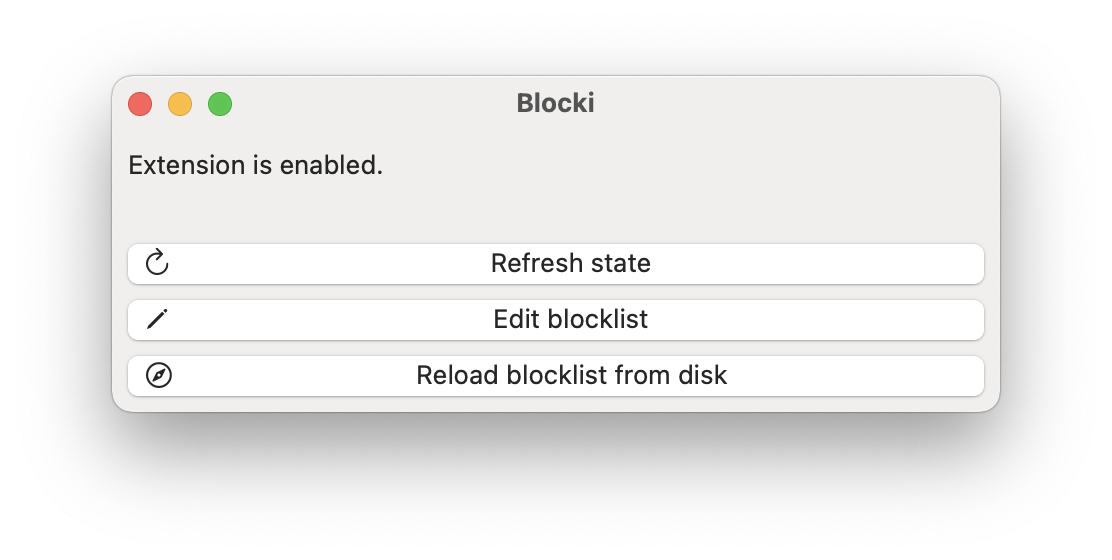
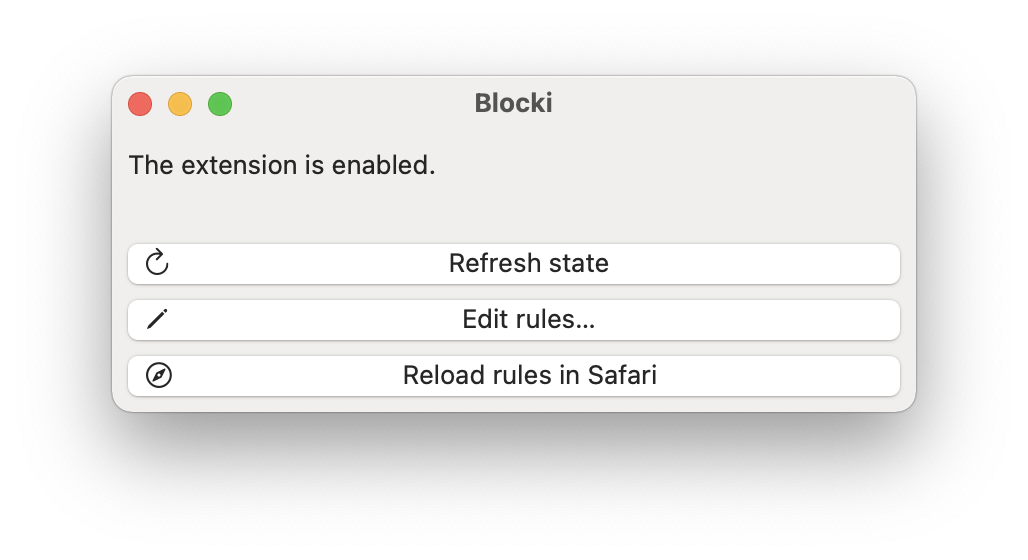
Fix typos and update screenshot

diff --git a/Blocki/ViewController.swift b/Blocki/ViewController.swift
@@ -57,8 +57,8 @@ class ViewController: NSViewController {
 			let state = optionalState!
 
 			let message = state.isEnabled
-				? NSLocalizedString("The Extension is enabled.", comment: "Text indicating that the extension is enabled in Safari.")
-				: NSLocalizedString("The Extension is not enabled.", comment: "Text indicating that the extension is not enabled in Safari.")
+				? NSLocalizedString("The extension is enabled.", comment: "Text indicating that the extension is enabled in Safari.")
+				: NSLocalizedString("The extension is not enabled.", comment: "Text indicating that the extension is not enabled in Safari.")
 
 			DispatchQueue.main.async {
 				self.signal(message: message)

diff --git a/README.md b/README.md
@@ -1,6 +1,6 @@
 #  Blocki
 
-<img src="screenshot.png" alt="Screenshot of Blocki" width="556" heigth="280"/>
+<img src="screenshot.png" alt="Screenshot of Blocki" width="514" heigth="280"/>
 
 A lot of websites out there have many minor annoyances. If you visit those websites frequently, it drastically can reduce your browsing experience. With Blocki, you get control back and can manually specify rules of which content you want to block or hide.
 
